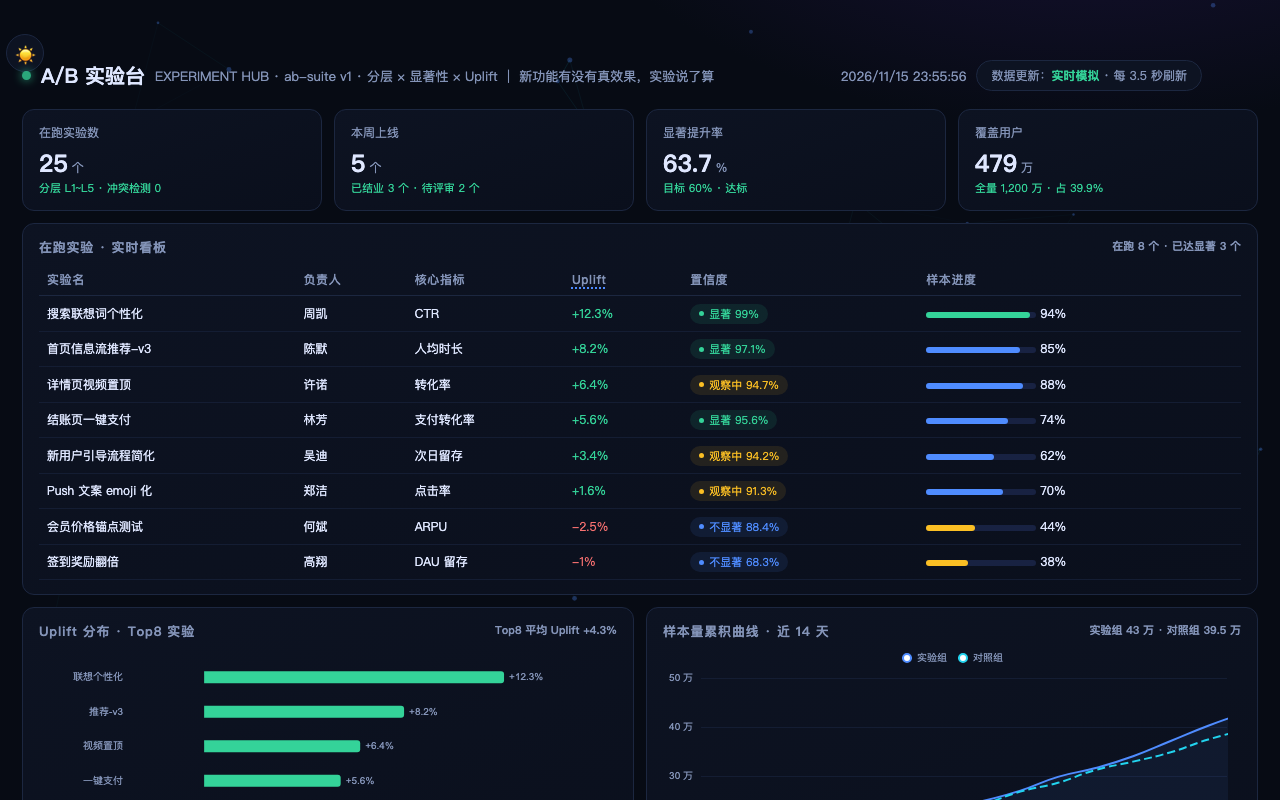
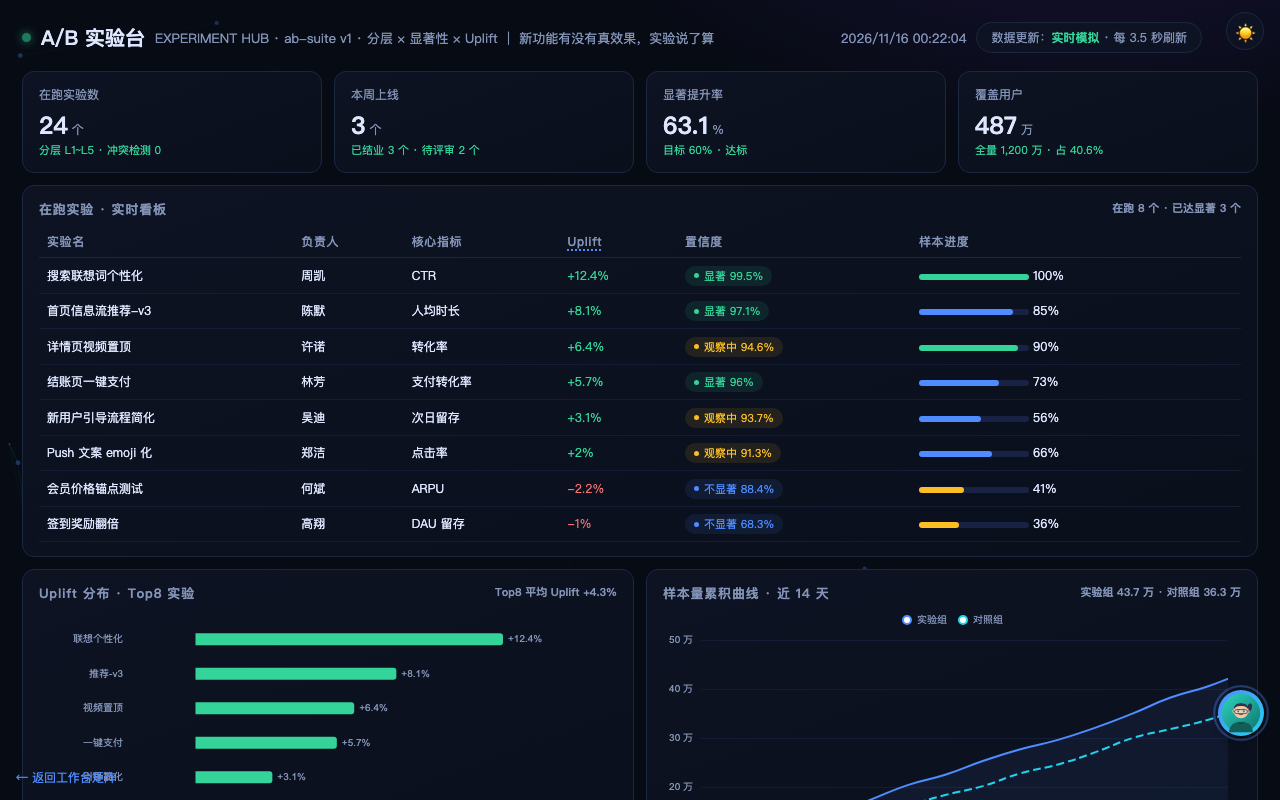
docs: P7 收尾归档 0.8.0 — CHANGELOG 追加、task-p.md 全项勾选、hero 截图随去 Mock 化更新

diff --git a/CHANGELOG.md b/CHANGELOG.md
@@ -53,6 +53,28 @@
 ### 验证
 - `tools/a11y_audit.py` 17 页 0 问题；15 台全量截图全绿；390 / 1280 / 1920 三档目检
 
+## [0.8.0] · 2026-11-16 · 去 Mock 化 + 虚拟员工团队 + 小助手重设计
+
+按 `task-p.md` P0~P7 执行：
+
+### 修复 · tech-fx 层级方案重做（P1）
+- v1 的 `body>*` 提层规则特异性 1,0,3 压过组件 `position:fixed`（0,1,0），把 AI 小助手 / 主题按钮 / 徽标拉进文档流——"小助手样式乱"的根因
+- v2 改 `body{isolation:isolate}` + canvas `z-index:-1`：画在 body 背景之上、内容之下，业务元素零侵入，主题切换的 CSS 变量背景依然生效
+
+### 去 Mock 化 · 清引用（P2）
+- 15 页删除「MOCK DATA · 演示数据」徽标（grep 断言 0 命中）
+- zcode-tast-cms 全部引用清除：门户页脚与卡片描述、content-ops 页头与页内链接、README 工作台清单与姊妹项目行
+
+### 新增 · 虚拟员工团队（P3/P4）
+- `assets/va-team.js`：15 位与 15 张作战地图一一对应的虚拟员工——参数化 SVG 卡通头像（发型/配饰/工装全参数化，耳麦、单边镜、护目镜、安全帽、天线各具标志物）+ 一句话人设 + 技能标签 + **专家级提示词**（含职责边界/方法论/输出格式，复制即可投喂任意大模型）
+- `employees.html` 团队主页：头像 + 描述 + 提示词一键复制（Clipboard API + execCommand 兜底），部门筛选（技术/增长/客户/运营/职能），亮暗主题，OG meta 齐全
+- 门户 Hero 加「👥 虚拟员工团队」入口；README 技术形态补说明
+
+### 重设计 · AI 解读助手（P5）
+- fab 从通用 🤖 换成**本页对应虚拟员工的迷你卡通头像**（按路径自动映射，业务页面零配置）
+- 面板头部显示员工身份（阿稳 · SRE 值班工程师 / 虚拟员工 · OPS CENTER · 在线），开屏问候改用人设文案
+- 底部新增「👥 认识全团队」入口；insights/advice/alerts 逻辑零改动（只换壳不换脑）
+
 ## [0.5.0] · 2026-11-12 · 展示物料与工程加固（持续优化轮）
 
 自动化定时任务按 `OPTIMIZATION_ROADMAP.md` 队列逐条执行，本轮完成 14 条：
@@ -125,7 +147,8 @@
 
 ---
 
-[0.7.0]: https://github.com/wuxiumu/zcode-workbench/compare/aacd6fb...HEAD
+[0.8.0]: https://github.com/wuxiumu/zcode-workbench/compare/a9c5408...HEAD
+[0.7.0]: https://github.com/wuxiumu/zcode-workbench/compare/aacd6fb...a9c5408
 [0.6.0]: https://github.com/wuxiumu/zcode-workbench/compare/2376227...aacd6fb
 [0.5.0]: https://github.com/wuxiumu/zcode-workbench/compare/99f9201...2376227
 [0.4.0]: https://github.com/wuxiumu/zcode-workbench/compare/2fa4ddf...99f9201
